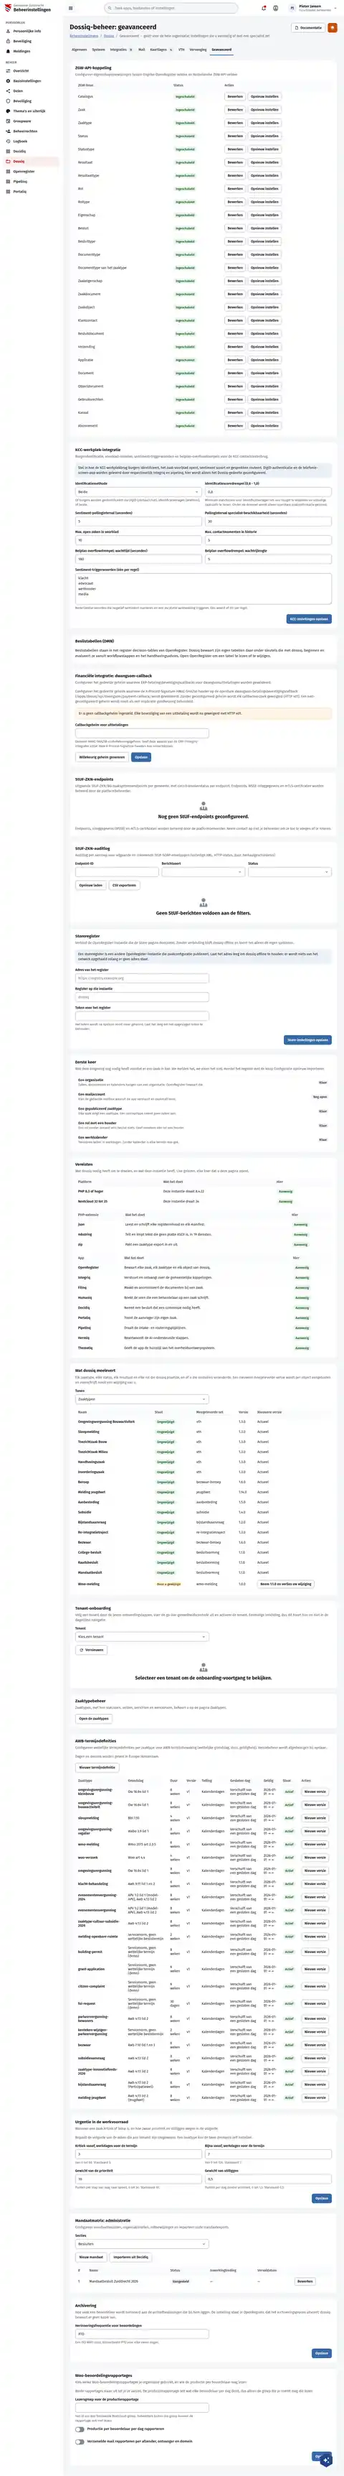
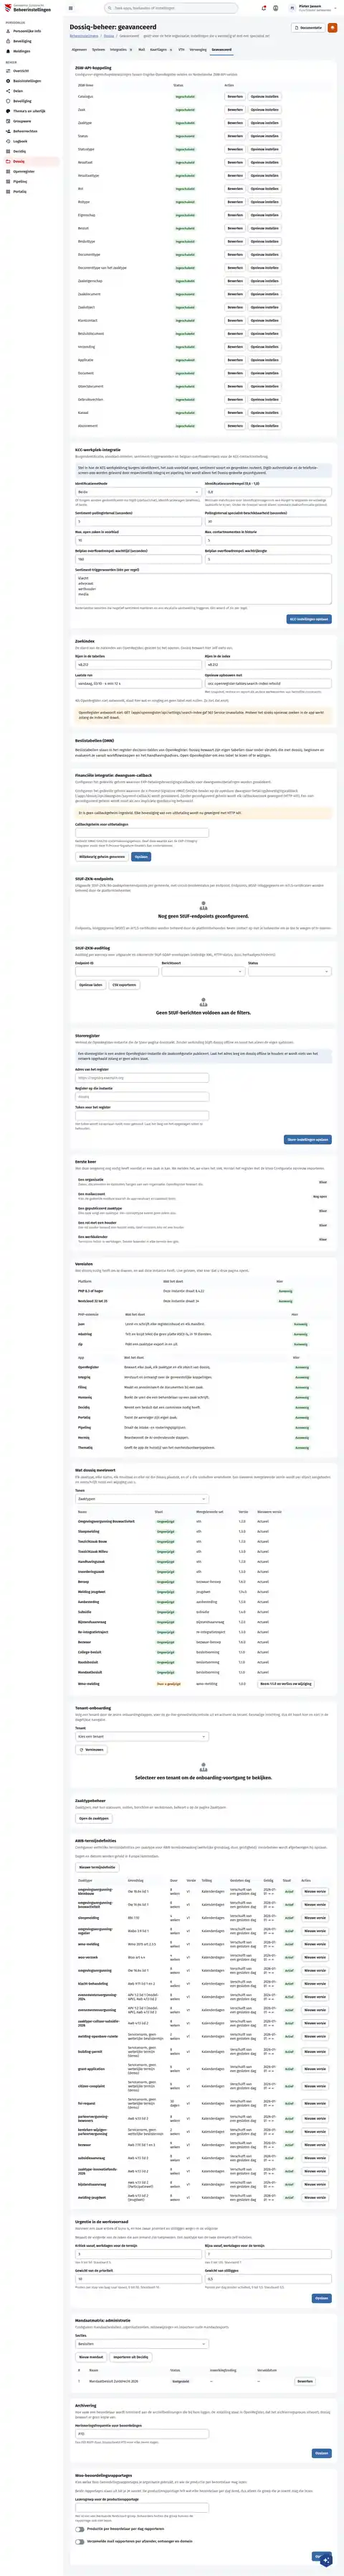
feat(screens): dossiq search index panel and procurement figures
DqBeheerGeavanceerd: the Zoekindex section reads OpenRegister's search index state (rows in the tables, rows in the index, last run, the occ command that rebuilds it) and shows what went wrong when OpenRegister does not answer (case-search-via-or-unified-search, REQ-CSD-05).
DqAanbesteding: the procurement and contract figures from the register widgets: an award without publication, contracts ending within 90 days, tenders at or above the EU threshold, a contract longer than four years (dossiq-procurement-compliance REQ-PCC-005, dossiq-procurement-contract-lifecycle REQ-CLM-007).

Assisted-by: ClaudeCode:claude-fable-5-1

diff --git a/preview/screens/boards/DqBeheerGeavanceerd.html b/preview/screens/boards/DqBeheerGeavanceerd.html
@@ -281,7 +281,103 @@ media</textarea><span style="font-size: 13px; color: var(--sc-work-muted, #5e616
           </section>
         
           <section aria-labelledby="nbi-s2" style="background: #ffffff; border: 1px solid var(--sc-work-line, #e4e6ea); border-radius: 12px; padding: 20px 22px; display: flex; flex-direction: column; gap: 6px">
-            <h2 id="nbi-s2" style="margin: 0; font-size: 17px; font-weight: 700; line-height: 1.3">Beslistabellen (DMN)</h2>
+            <h2 id="nbi-s2" style="margin: 0; font-size: 17px; font-weight: 700; line-height: 1.3">Zoekindex</h2>
+            <p style="margin: 0; font-size: 14px; color: var(--sc-work-muted, #5e6168); line-height: 1.5">De stand van de zoekindex van OpenRegister, gelezen bij het openen. Dossiq bewaart hier zelf niets van.</p>
+            <div style="display: flex; flex-direction: column; gap: 16px; margin-top: 10px">
+              
+                
+                
+                
+                
+                
+                
+                
+                
+                  <div style="display: flex; flex-wrap: wrap; gap: 12px"><div style="flex: 1 1 180px; min-width: 0; display: flex; flex-direction: column; gap: 6px"><span style="font-size: 14px; font-weight: 600">Rijen in de tabellen</span><input type="text" aria-label="Rijen in de tabellen" value="48.212" style="width: 100%; height: 40px; box-sizing: border-box; padding: 0 12px; border: 1px solid var(--sc-work-field, #828a95); border-radius: 8px; background: #ffffff; font: 400 15px var(--sc-font, 'Fira Sans'), sans-serif; color: var(--sc-work-ink, #1b1c1d)"></div><div style="flex: 1 1 180px; min-width: 0; display: flex; flex-direction: column; gap: 6px"><span style="font-size: 14px; font-weight: 600">Rijen in de index</span><input type="text" aria-label="Rijen in de index" value="48.212" style="width: 100%; height: 40px; box-sizing: border-box; padding: 0 12px; border: 1px solid var(--sc-work-field, #828a95); border-radius: 8px; background: #ffffff; font: 400 15px var(--sc-font, 'Fira Sans'), sans-serif; color: var(--sc-work-ink, #1b1c1d)"></div></div>
+                
+                
+                
+                
+                
+                
+                
+                
+                
+                
+                
+                
+              
+                
+                
+                
+                
+                
+                
+                
+                
+                  <div style="display: flex; flex-wrap: wrap; gap: 12px"><div style="flex: 1 1 180px; min-width: 0; display: flex; flex-direction: column; gap: 6px"><span style="font-size: 14px; font-weight: 600">Laatste run</span><input type="text" aria-label="Laatste run" value="vandaag, 03:10 · 4 min 12 s" style="width: 100%; height: 40px; box-sizing: border-box; padding: 0 12px; border: 1px solid var(--sc-work-field, #828a95); border-radius: 8px; background: #ffffff; font: 400 15px var(--sc-font, 'Fira Sans'), sans-serif; color: var(--sc-work-ink, #1b1c1d)"></div><div style="flex: 1 1 180px; min-width: 0; display: flex; flex-direction: column; gap: 6px"><span style="font-size: 14px; font-weight: 600">Opnieuw opbouwen met</span><input type="text" aria-label="Opnieuw opbouwen met" value="occ openregister:tables:search-index rebuild" style="width: 100%; height: 40px; box-sizing: border-box; padding: 0 12px; border: 1px solid var(--sc-work-field, #828a95); border-radius: 8px; background: #ffffff; font: 400 15px var(--sc-font, 'Fira Sans'), sans-serif; color: var(--sc-work-ink, #1b1c1d)"><span style="font-size: 13px; color: var(--sc-work-muted, #5e6168); line-height: 1.45">Met snapshot, restore en report als andere werkwoorden van hetzelfde commando.</span></div></div>
+                
+                
+                
+                
+                
+                
+                
+                
+                
+                
+                
+                
+              
+                
+                
+                
+                
+                
+                
+                
+                
+                
+                
+                
+                
+                
+                
+                
+                
+                
+                
+                  <p style="margin: 0; padding: 10px 12px; border-radius: 8px; font-size: 14px; line-height: 1.5; padding: 0; color: var(--sc-work-muted, #5e6168)">Als OpenRegister niet antwoordt, staat hier wat er misging en geen tabel met nullen. Zo ziet dat eruit:</p>
+                
+                
+              
+                
+                
+                
+                
+                
+                
+                
+                
+                
+                
+                
+                
+                
+                
+                
+                
+                
+                
+                  <p style="margin: 0; padding: 10px 12px; border-radius: 8px; font-size: 14px; line-height: 1.5; padding: 12px 14px; border: 1px solid #f0c987; border-radius: 10px; background: #fff4e5; color: var(--sc-work-ink, #1b1c1d)">OpenRegister antwoordt niet: GET /apps/openregister/api/settings/search-index gaf 503 Service Unavailable. Probeer het straks opnieuw; zoeken in de app werkt zolang de index zelf draait.</p>
+                
+                
+              
+            </div>
+          </section>
+        
+          <section aria-labelledby="nbi-s3" style="background: #ffffff; border: 1px solid var(--sc-work-line, #e4e6ea); border-radius: 12px; padding: 20px 22px; display: flex; flex-direction: column; gap: 6px">
+            <h2 id="nbi-s3" style="margin: 0; font-size: 17px; font-weight: 700; line-height: 1.3">Beslistabellen (DMN)</h2>
             
             <div style="display: flex; flex-direction: column; gap: 16px; margin-top: 10px">
               
@@ -310,8 +406,8 @@ media</textarea><span style="font-size: 13px; color: var(--sc-work-muted, #5e616
             </div>
           </section>
         
-          <section aria-labelledby="nbi-s3" style="background: #ffffff; border: 1px solid var(--sc-work-line, #e4e6ea); border-radius: 12px; padding: 20px 22px; display: flex; flex-direction: column; gap: 6px">
-            <h2 id="nbi-s3" style="margin: 0; font-size: 17px; font-weight: 700; line-height: 1.3">Financiële integratie: dwangsom-callback</h2>
+          <section aria-labelledby="nbi-s4" style="background: #ffffff; border: 1px solid var(--sc-work-line, #e4e6ea); border-radius: 12px; padding: 20px 22px; display: flex; flex-direction: column; gap: 6px">
+            <h2 id="nbi-s4" style="margin: 0; font-size: 17px; font-weight: 700; line-height: 1.3">Financiële integratie: dwangsom-callback</h2>
             <p style="margin: 0; font-size: 14px; color: var(--sc-work-muted, #5e6168); line-height: 1.5">Configureer het gedeelde geheim waarmee ERP-betalingsbevestigingscallbacks voor dwangsomuitbetalingen worden gevalideerd.</p>
             <div style="display: flex; flex-direction: column; gap: 16px; margin-top: 10px">
               
@@ -406,8 +502,8 @@ media</textarea><span style="font-size: 13px; color: var(--sc-work-muted, #5e616
             </div>
           </section>
         
-          <section aria-labelledby="nbi-s4" style="background: #ffffff; border: 1px solid var(--sc-work-line, #e4e6ea); border-radius: 12px; padding: 20px 22px; display: flex; flex-direction: column; gap: 6px">
-            <h2 id="nbi-s4" style="margin: 0; font-size: 17px; font-weight: 700; line-height: 1.3">StUF-ZKN-endpoints</h2>
+          <section aria-labelledby="nbi-s5" style="background: #ffffff; border: 1px solid var(--sc-work-line, #e4e6ea); border-radius: 12px; padding: 20px 22px; display: flex; flex-direction: column; gap: 6px">
+            <h2 id="nbi-s5" style="margin: 0; font-size: 17px; font-weight: 700; line-height: 1.3">StUF-ZKN-endpoints</h2>
             <p style="margin: 0; font-size: 14px; color: var(--sc-work-muted, #5e6168); line-height: 1.5">Uitgaande StUF-ZKN/BG-zaaksysteemendpoints per gemeente, met circuit-breakerstatus per endpoint. Endpoints, WSSE-inloggegevens en mTLS-certificaten worden beheerd door de platformbeheerder.</p>
             <div style="display: flex; flex-direction: column; gap: 16px; margin-top: 10px">
               
@@ -458,8 +554,8 @@ media</textarea><span style="font-size: 13px; color: var(--sc-work-muted, #5e616
             </div>
           </section>
         
-          <section aria-labelledby="nbi-s5" style="background: #ffffff; border: 1px solid var(--sc-work-line, #e4e6ea); border-radius: 12px; padding: 20px 22px; display: flex; flex-direction: column; gap: 6px">
-            <h2 id="nbi-s5" style="margin: 0; font-size: 17px; font-weight: 700; line-height: 1.3">StUF-ZKN-auditlog</h2>
+          <section aria-labelledby="nbi-s6" style="background: #ffffff; border: 1px solid var(--sc-work-line, #e4e6ea); border-radius: 12px; padding: 20px 22px; display: flex; flex-direction: column; gap: 6px">
+            <h2 id="nbi-s6" style="margin: 0; font-size: 17px; font-weight: 700; line-height: 1.3">StUF-ZKN-auditlog</h2>
             <p style="margin: 0; font-size: 14px; color: var(--sc-work-muted, #5e6168); line-height: 1.5">Auditlog per aanroep voor uitgaande en inkomende StUF-SOAP-enveloppen (volledige XML, HTTP-status, duur, herhaalgeschiedenis).</p>
             <div style="display: flex; flex-direction: column; gap: 16px; margin-top: 10px">
               
@@ -532,8 +628,8 @@ media</textarea><span style="font-size: 13px; color: var(--sc-work-muted, #5e616
             </div>
           </section>
         
-          <section aria-labelledby="nbi-s6" style="background: #ffffff; border: 1px solid var(--sc-work-line, #e4e6ea); border-radius: 12px; padding: 20px 22px; display: flex; flex-direction: column; gap: 6px">
-            <h2 id="nbi-s6" style="margin: 0; font-size: 17px; font-weight: 700; line-height: 1.3">Storeregister</h2>
+          <section aria-labelledby="nbi-s7" style="background: #ffffff; border: 1px solid var(--sc-work-line, #e4e6ea); border-radius: 12px; padding: 20px 22px; display: flex; flex-direction: column; gap: 6px">
+            <h2 id="nbi-s7" style="margin: 0; font-size: 17px; font-weight: 700; line-height: 1.3">Storeregister</h2>
             <p style="margin: 0; font-size: 14px; color: var(--sc-work-muted, #5e6168); line-height: 1.5">Verbind de OpenRegister-instantie die de Store-pagina doorzoekt. Zonder verbinding blijft dossiq offline en toont het alleen de eigen sjablonen.</p>
             <div style="display: flex; flex-direction: column; gap: 16px; margin-top: 10px">
               
@@ -650,8 +746,8 @@ media</textarea><span style="font-size: 13px; color: var(--sc-work-muted, #5e616
             </div>
           </section>
         
-          <section aria-labelledby="nbi-s7" style="background: #ffffff; border: 1px solid var(--sc-work-line, #e4e6ea); border-radius: 12px; padding: 20px 22px; display: flex; flex-direction: column; gap: 6px">
-            <h2 id="nbi-s7" style="margin: 0; font-size: 17px; font-weight: 700; line-height: 1.3">Eerste keer</h2>
+          <section aria-labelledby="nbi-s8" style="background: #ffffff; border: 1px solid var(--sc-work-line, #e4e6ea); border-radius: 12px; padding: 20px 22px; display: flex; flex-direction: column; gap: 6px">
+            <h2 id="nbi-s8" style="margin: 0; font-size: 17px; font-weight: 700; line-height: 1.3">Eerste keer</h2>
             <p style="margin: 0; font-size: 14px; color: var(--sc-work-muted, #5e6168); line-height: 1.5">Wat deze omgeving nog nodig heeft voordat er een zaak in kan. We melden het, we eisen het niet. Herstel het register met de knop Configuratie opnieuw importeren.</p>
             <div style="display: flex; flex-direction: column; gap: 16px; margin-top: 10px">
               
@@ -680,8 +776,8 @@ media</textarea><span style="font-size: 13px; color: var(--sc-work-muted, #5e616
             </div>
           </section>
         
-          <section aria-labelledby="nbi-s8" style="background: #ffffff; border: 1px solid var(--sc-work-line, #e4e6ea); border-radius: 12px; padding: 20px 22px; display: flex; flex-direction: column; gap: 6px">
-            <h2 id="nbi-s8" style="margin: 0; font-size: 17px; font-weight: 700; line-height: 1.3">Vereisten</h2>
+          <section aria-labelledby="nbi-s9" style="background: #ffffff; border: 1px solid var(--sc-work-line, #e4e6ea); border-radius: 12px; padding: 20px 22px; display: flex; flex-direction: column; gap: 6px">
+            <h2 id="nbi-s9" style="margin: 0; font-size: 17px; font-weight: 700; line-height: 1.3">Vereisten</h2>
             <p style="margin: 0; font-size: 14px; color: var(--sc-work-muted, #5e6168); line-height: 1.5">Wat dossiq nodig heeft om te draaien, en wat deze instantie heeft. Live gelezen, elke keer dat u deze pagina opent.</p>
             <div style="display: flex; flex-direction: column; gap: 16px; margin-top: 10px">
               
@@ -754,8 +850,8 @@ media</textarea><span style="font-size: 13px; color: var(--sc-work-muted, #5e616
             </div>
           </section>
         
-          <section aria-labelledby="nbi-s9" style="background: #ffffff; border: 1px solid var(--sc-work-line, #e4e6ea); border-radius: 12px; padding: 20px 22px; display: flex; flex-direction: column; gap: 6px">
-            <h2 id="nbi-s9" style="margin: 0; font-size: 17px; font-weight: 700; line-height: 1.3">Wat dossiq meelevert</h2>
+          <section aria-labelledby="nbi-s10" style="background: #ffffff; border: 1px solid var(--sc-work-line, #e4e6ea); border-radius: 12px; padding: 20px 22px; display: flex; flex-direction: column; gap: 6px">
+            <h2 id="nbi-s10" style="margin: 0; font-size: 17px; font-weight: 700; line-height: 1.3">Wat dossiq meelevert</h2>
             <p style="margin: 0; font-size: 14px; color: var(--sc-work-muted, #5e6168); line-height: 1.5">Elk zaaktype, elke status, elk resultaat en elke rol die dossiq plaatste, en of u die sindsdien veranderde. Een nieuwere meegeleverde versie wordt per object aangeboden en overschrijft nooit een wijziging van u.</p>
             <div style="display: flex; flex-direction: column; gap: 16px; margin-top: 10px">
               
@@ -806,8 +902,8 @@ media</textarea><span style="font-size: 13px; color: var(--sc-work-muted, #5e616
             </div>
           </section>
         
-          <section aria-labelledby="nbi-s10" style="background: #ffffff; border: 1px solid var(--sc-work-line, #e4e6ea); border-radius: 12px; padding: 20px 22px; display: flex; flex-direction: column; gap: 6px">
-            <h2 id="nbi-s10" style="margin: 0; font-size: 17px; font-weight: 700; line-height: 1.3">Tenant-onboarding</h2>
+          <section aria-labelledby="nbi-s11" style="background: #ffffff; border: 1px solid var(--sc-work-line, #e4e6ea); border-radius: 12px; padding: 20px 22px; display: flex; flex-direction: column; gap: 6px">
+            <h2 id="nbi-s11" style="margin: 0; font-size: 17px; font-weight: 700; line-height: 1.3">Tenant-onboarding</h2>
             <p style="margin: 0; font-size: 14px; color: var(--sc-work-muted, #5e6168); line-height: 1.5">Volg een tenant door de zeven onboardingstappen, voer de go-live-gereedheidscontrole uit en activeer de tenant. Eenmalige inrichting, dus dit hoort hier en niet in de dagelijkse navigatie.</p>
             <div style="display: flex; flex-direction: column; gap: 16px; margin-top: 10px">
               
@@ -880,8 +976,8 @@ media</textarea><span style="font-size: 13px; color: var(--sc-work-muted, #5e616
             </div>
           </section>
         
-          <section aria-labelledby="nbi-s11" style="background: #ffffff; border: 1px solid var(--sc-work-line, #e4e6ea); border-radius: 12px; padding: 20px 22px; display: flex; flex-direction: column; gap: 6px">
-            <h2 id="nbi-s11" style="margin: 0; font-size: 17px; font-weight: 700; line-height: 1.3">Zaaktypebeheer</h2>
+          <section aria-labelledby="nbi-s12" style="background: #ffffff; border: 1px solid var(--sc-work-line, #e4e6ea); border-radius: 12px; padding: 20px 22px; display: flex; flex-direction: column; gap: 6px">
+            <h2 id="nbi-s12" style="margin: 0; font-size: 17px; font-weight: 700; line-height: 1.3">Zaaktypebeheer</h2>
             <p style="margin: 0; font-size: 14px; color: var(--sc-work-muted, #5e6168); line-height: 1.5">Zaaktypen, met hun statussen, velden, berichten en werkstroom, beheert u op de pagina Zaaktypen.</p>
             <div style="display: flex; flex-direction: column; gap: 16px; margin-top: 10px">
               
@@ -910,8 +1006,8 @@ media</textarea><span style="font-size: 13px; color: var(--sc-work-muted, #5e616
             </div>
           </section>
         
-          <section aria-labelledby="nbi-s12" style="background: #ffffff; border: 1px solid var(--sc-work-line, #e4e6ea); border-radius: 12px; padding: 20px 22px; display: flex; flex-direction: column; gap: 6px">
-            <h2 id="nbi-s12" style="margin: 0; font-size: 17px; font-weight: 700; line-height: 1.3">AWB-termijndefinities</h2>
+          <section aria-labelledby="nbi-s13" style="background: #ffffff; border: 1px solid var(--sc-work-line, #e4e6ea); border-radius: 12px; padding: 20px 22px; display: flex; flex-direction: column; gap: 6px">
+            <h2 id="nbi-s13" style="margin: 0; font-size: 17px; font-weight: 700; line-height: 1.3">AWB-termijndefinities</h2>
             <p style="margin: 0; font-size: 14px; color: var(--sc-work-muted, #5e6168); line-height: 1.5">Configureer wettelijke termijndefinities per zaaktype voor AWB-termijnbewaking (wettelijke grondslag, duur, geldigheid). Versiebeheer wordt afgedwongen bij opslaan.</p>
             <div style="display: flex; flex-direction: column; gap: 16px; margin-top: 10px">
               
@@ -984,8 +1080,8 @@ media</textarea><span style="font-size: 13px; color: var(--sc-work-muted, #5e616
             </div>
           </section>
         
-          <section aria-labelledby="nbi-s13" style="background: #ffffff; border: 1px solid var(--sc-work-line, #e4e6ea); border-radius: 12px; padding: 20px 22px; display: flex; flex-direction: column; gap: 6px">
-            <h2 id="nbi-s13" style="margin: 0; font-size: 17px; font-weight: 700; line-height: 1.3">Urgentie in de werkvoorraad</h2>
+          <section aria-labelledby="nbi-s14" style="background: #ffffff; border: 1px solid var(--sc-work-line, #e4e6ea); border-radius: 12px; padding: 20px 22px; display: flex; flex-direction: column; gap: 6px">
+            <h2 id="nbi-s14" style="margin: 0; font-size: 17px; font-weight: 700; line-height: 1.3">Urgentie in de werkvoorraad</h2>
             <p style="margin: 0; font-size: 14px; color: var(--sc-work-muted, #5e6168); line-height: 1.5">Wanneer een zaak kritiek of bijna is, en hoe zwaar prioriteit en stilliggen wegen in de volgorde.</p>
             <div style="display: flex; flex-direction: column; gap: 16px; margin-top: 10px">
               
@@ -1080,8 +1176,8 @@ media</textarea><span style="font-size: 13px; color: var(--sc-work-muted, #5e616
             </div>
           </section>
         
-          <section aria-labelledby="nbi-s14" style="background: #ffffff; border: 1px solid var(--sc-work-line, #e4e6ea); border-radius: 12px; padding: 20px 22px; display: flex; flex-direction: column; gap: 6px">
-            <h2 id="nbi-s14" style="margin: 0; font-size: 17px; font-weight: 700; line-height: 1.3">Mandaatmatrix: administratie</h2>
+          <section aria-labelledby="nbi-s15" style="background: #ffffff; border: 1px solid var(--sc-work-line, #e4e6ea); border-radius: 12px; padding: 20px 22px; display: flex; flex-direction: column; gap: 6px">
+            <h2 id="nbi-s15" style="margin: 0; font-size: 17px; font-weight: 700; line-height: 1.3">Mandaatmatrix: administratie</h2>
             <p style="margin: 0; font-size: 14px; color: var(--sc-work-muted, #5e6168); line-height: 1.5">Configureer mandaatbesluiten, organisatierollen, roltoewijzingen en importeer oude mandaatexports</p>
             <div style="display: flex; flex-direction: column; gap: 16px; margin-top: 10px">
               
@@ -1154,8 +1250,8 @@ media</textarea><span style="font-size: 13px; color: var(--sc-work-muted, #5e616
             </div>
           </section>
         
-          <section aria-labelledby="nbi-s15" style="background: #ffffff; border: 1px solid var(--sc-work-line, #e4e6ea); border-radius: 12px; padding: 20px 22px; display: flex; flex-direction: column; gap: 6px">
-            <h2 id="nbi-s15" style="margin: 0; font-size: 17px; font-weight: 700; line-height: 1.3">Archivering</h2>
+          <section aria-labelledby="nbi-s16" style="background: #ffffff; border: 1px solid var(--sc-work-line, #e4e6ea); border-radius: 12px; padding: 20px 22px; display: flex; flex-direction: column; gap: 6px">
+            <h2 id="nbi-s16" style="margin: 0; font-size: 17px; font-weight: 700; line-height: 1.3">Archivering</h2>
             <p style="margin: 0; font-size: 14px; color: var(--sc-work-muted, #5e6168); line-height: 1.5">Hoe vaak een beoordelaar wordt herinnerd aan de archiefbeslissingen die bij hem liggen. De instelling staat in OpenRegister, dat het archiveringsproces uitvoert; dossiq bewaart er geen kopie van.</p>
             <div style="display: flex; flex-direction: column; gap: 16px; margin-top: 10px">
               
@@ -1206,8 +1302,8 @@ media</textarea><span style="font-size: 13px; color: var(--sc-work-muted, #5e616
             </div>
           </section>
         
-          <section aria-labelledby="nbi-s16" style="background: #ffffff; border: 1px solid var(--sc-work-line, #e4e6ea); border-radius: 12px; padding: 20px 22px; display: flex; flex-direction: column; gap: 6px">
-            <h2 id="nbi-s16" style="margin: 0; font-size: 17px; font-weight: 700; line-height: 1.3">Woo-beoordelingsrapportages</h2>
+          <section aria-labelledby="nbi-s17" style="background: #ffffff; border: 1px solid var(--sc-work-line, #e4e6ea); border-radius: 12px; padding: 20px 22px; display: flex; flex-direction: column; gap: 6px">
+            <h2 id="nbi-s17" style="margin: 0; font-size: 17px; font-weight: 700; line-height: 1.3">Woo-beoordelingsrapportages</h2>
             <p style="margin: 0; font-size: 14px; color: var(--sc-work-muted, #5e6168); line-height: 1.5">Kies welke Woo-beoordelingsrapportages je organisatie gebruikt, en wie de productie per beoordelaar mag lezen.</p>
             <div style="display: flex; flex-direction: column; gap: 16px; margin-top: 10px">
               

diff --git a/preview/screens/boards/DqAanbesteding.html b/preview/screens/boards/DqAanbesteding.html
@@ -269,6 +269,14 @@ a{color:var(--sc-primary, #3669a5)}a:hover{color:var(--sc-primary-deep, #234a78)
               <p style="margin: 0; font-size: 14px; color: var(--sc-work-muted, #5e6168)">Na de definitieve gunning maak je het contract aan. Het komt bij de andere contracten te staan.</p>
               <a href="DqContracten.html" style="font-size: 14px; font-weight: 600">Naar contracten</a>
             </section>
+            <section aria-label="Inkoop en contracten in cijfers" style="background: #ffffff; border: 1px solid var(--sc-work-line, #e4e6ea); border-radius: 12px; padding: 20px 22px; display: flex; flex-direction: column; gap: 4px">
+              <h2 style="margin: 0 0 6px; font-size: 15px; font-weight: 600; color: var(--sc-work-muted, #5e6168)">Inkoop en contracten in cijfers</h2>
+              <div style="display: flex; flex-direction: column; gap: 2px; padding: 10px 0; border-top: 1px solid var(--sc-work-soft, #eef0f3)"><span style="display: flex; align-items: baseline; gap: 8px"><strong style="font-size: 22px; font-weight: 700; color: var(--sc-accent-deep, #a30000)">1</strong><span style="font-size: 14px; font-weight: 600">gunning zonder publicatie</span></span><span style="font-size: 13px; color: var(--sc-work-muted, #5e6168)">AB-2026-003: 35 dagen na de definitieve gunning nog geen gunningsbericht (Aw 2012 art. 2.130), 5 dagen te laat</span></div>
+              <div style="display: flex; flex-direction: column; gap: 2px; padding: 10px 0; border-top: 1px solid var(--sc-work-soft, #eef0f3)"><span style="display: flex; align-items: baseline; gap: 8px"><strong style="font-size: 22px; font-weight: 700; color: var(--sc-work-ink, #1b1c1d)">4</strong><span style="font-size: 14px; font-weight: 600">contracten lopen binnen 90 dagen af</span></span><span style="font-size: 13px; color: var(--sc-work-muted, #5e6168)">Van de 23 lopende en te verlengen contracten; de oudste eindigt 12 jan 2027</span></div>
+              <div style="display: flex; flex-direction: column; gap: 2px; padding: 10px 0; border-top: 1px solid var(--sc-work-soft, #eef0f3)"><span style="display: flex; align-items: baseline; gap: 8px"><strong style="font-size: 22px; font-weight: 700; color: var(--sc-work-ink, #1b1c1d)">2</strong><span style="font-size: 14px; font-weight: 600">van 7 aanbestedingen op of boven de EU-drempel</span></span><span style="font-size: 13px; color: var(--sc-work-muted, #5e6168)">Beide Europees aanbesteed; geen afwijkende procedure</span></div>
+              <div style="display: flex; flex-direction: column; gap: 2px; padding: 10px 0; border-top: 1px solid var(--sc-work-soft, #eef0f3)"><span style="display: flex; align-items: baseline; gap: 8px"><strong style="font-size: 22px; font-weight: 700; color: var(--sc-work-ink, #1b1c1d)">1</strong><span style="font-size: 14px; font-weight: 600">contract langer dan 4 jaar</span></span><span style="font-size: 13px; color: var(--sc-work-muted, #5e6168)">Raamovereenkomst groenonderhoud, met motivering (Aw 2012 art. 2.140)</span></div>
+              <p style="margin: 6px 0 0; font-size: 13px; color: var(--sc-work-muted, #5e6168)">Dezelfde widgets staan op het dashboard van de inkoopadviseur. Ze komen uit de registers van aanbestedingen en contracten; dossiq telt zelf niets op.</p>
+            </section>
           </aside>
         </div>
       </main>

diff --git a/screens-src/zuiddrecht/DqAanbesteding.dc.html b/screens-src/zuiddrecht/DqAanbesteding.dc.html
@@ -107,6 +107,14 @@ a{color:#3669a5}a:hover{color:#234a78}
               <p style="margin: 0; font-size: 14px; color: #5e6168">Na de definitieve gunning maak je het contract aan. Het komt bij de andere contracten te staan.</p>
               <a href="DqContracten.dc.html" style="font-size: 14px; font-weight: 600">Naar contracten</a>
             </section>
+            <section aria-label="Inkoop en contracten in cijfers" style="background: #ffffff; border: 1px solid #e4e6ea; border-radius: 12px; padding: 20px 22px; display: flex; flex-direction: column; gap: 4px">
+              <h2 style="margin: 0 0 6px; font-size: 15px; font-weight: 600; color: #5e6168">Inkoop en contracten in cijfers</h2>
+              <div style="display: flex; flex-direction: column; gap: 2px; padding: 10px 0; border-top: 1px solid #eef0f3"><span style="display: flex; align-items: baseline; gap: 8px"><strong style="font-size: 22px; font-weight: 700; color: #a30000">1</strong><span style="font-size: 14px; font-weight: 600">gunning zonder publicatie</span></span><span style="font-size: 13px; color: #5e6168">AB-2026-003: 35 dagen na de definitieve gunning nog geen gunningsbericht (Aw 2012 art. 2.130), 5 dagen te laat</span></div>
+              <div style="display: flex; flex-direction: column; gap: 2px; padding: 10px 0; border-top: 1px solid #eef0f3"><span style="display: flex; align-items: baseline; gap: 8px"><strong style="font-size: 22px; font-weight: 700; color: #1b1c1d">4</strong><span style="font-size: 14px; font-weight: 600">contracten lopen binnen 90 dagen af</span></span><span style="font-size: 13px; color: #5e6168">Van de 23 lopende en te verlengen contracten; de oudste eindigt 12 jan 2027</span></div>
+              <div style="display: flex; flex-direction: column; gap: 2px; padding: 10px 0; border-top: 1px solid #eef0f3"><span style="display: flex; align-items: baseline; gap: 8px"><strong style="font-size: 22px; font-weight: 700; color: #1b1c1d">2</strong><span style="font-size: 14px; font-weight: 600">van 7 aanbestedingen op of boven de EU-drempel</span></span><span style="font-size: 13px; color: #5e6168">Beide Europees aanbesteed; geen afwijkende procedure</span></div>
+              <div style="display: flex; flex-direction: column; gap: 2px; padding: 10px 0; border-top: 1px solid #eef0f3"><span style="display: flex; align-items: baseline; gap: 8px"><strong style="font-size: 22px; font-weight: 700; color: #1b1c1d">1</strong><span style="font-size: 14px; font-weight: 600">contract langer dan 4 jaar</span></span><span style="font-size: 13px; color: #5e6168">Raamovereenkomst groenonderhoud, met motivering (Aw 2012 art. 2.140)</span></div>
+              <p style="margin: 6px 0 0; font-size: 13px; color: #5e6168">Dezelfde widgets staan op het dashboard van de inkoopadviseur. Ze komen uit de registers van aanbestedingen en contracten; dossiq telt zelf niets op.</p>
+            </section>
           </aside>
         </div>
       </main>

diff --git a/screens-src/zuiddrecht/DqBeheerGeavanceerd.dc.html b/screens-src/zuiddrecht/DqBeheerGeavanceerd.dc.html
@@ -44,6 +44,12 @@ class Component extends DCLogic {
         { area: 'Sentiment-triggerwoorden (één per regel)', value: 'klacht\nadvocaat\nwethouder\nmedia', rows: 5, hint: 'Nederlandse woorden die negatief sentiment markeren en een escalatie-aanbeveling triggeren. Eén woord of zin per regel.' },
         { buttons: [['KCC-instellingen opslaan', 'primary']] }
       ] },
+      { name: 'Zoekindex', desc: 'De stand van de zoekindex van OpenRegister, gelezen bij het openen. Dossiq bewaart hier zelf niets van.', rows: [
+        { pair: [{ label: 'Rijen in de tabellen', value: '48.212' }, { label: 'Rijen in de index', value: '48.212' }] },
+        { pair: [{ label: 'Laatste run', value: 'vandaag, 03:10 · 4 min 12 s' }, { label: 'Opnieuw opbouwen met', value: 'occ openregister:tables:search-index rebuild', hint: 'Met snapshot, restore en report als andere werkwoorden van hetzelfde commando.' }] },
+        { note: 'Als OpenRegister niet antwoordt, staat hier wat er misging en geen tabel met nullen. Zo ziet dat eruit:', tone: 'plain' },
+        { note: 'OpenRegister antwoordt niet: GET /apps/openregister/api/settings/search-index gaf 503 Service Unavailable. Probeer het straks opnieuw; zoeken in de app werkt zolang de index zelf draait.', tone: 'warn' }
+      ] },
       { name: 'Beslistabellen (DMN)', rows: [
         { para: 'Beslistabellen staan in het register decision-tables van OpenRegister. Dossiq bewaart zijn eigen tabellen daar onder sleutels die met dossiq. beginnen en evalueert ze vanuit workflowstappen en het handhavingsadvies. Open OpenRegister om een tabel te lezen of te wijzigen.' }
       ] },
